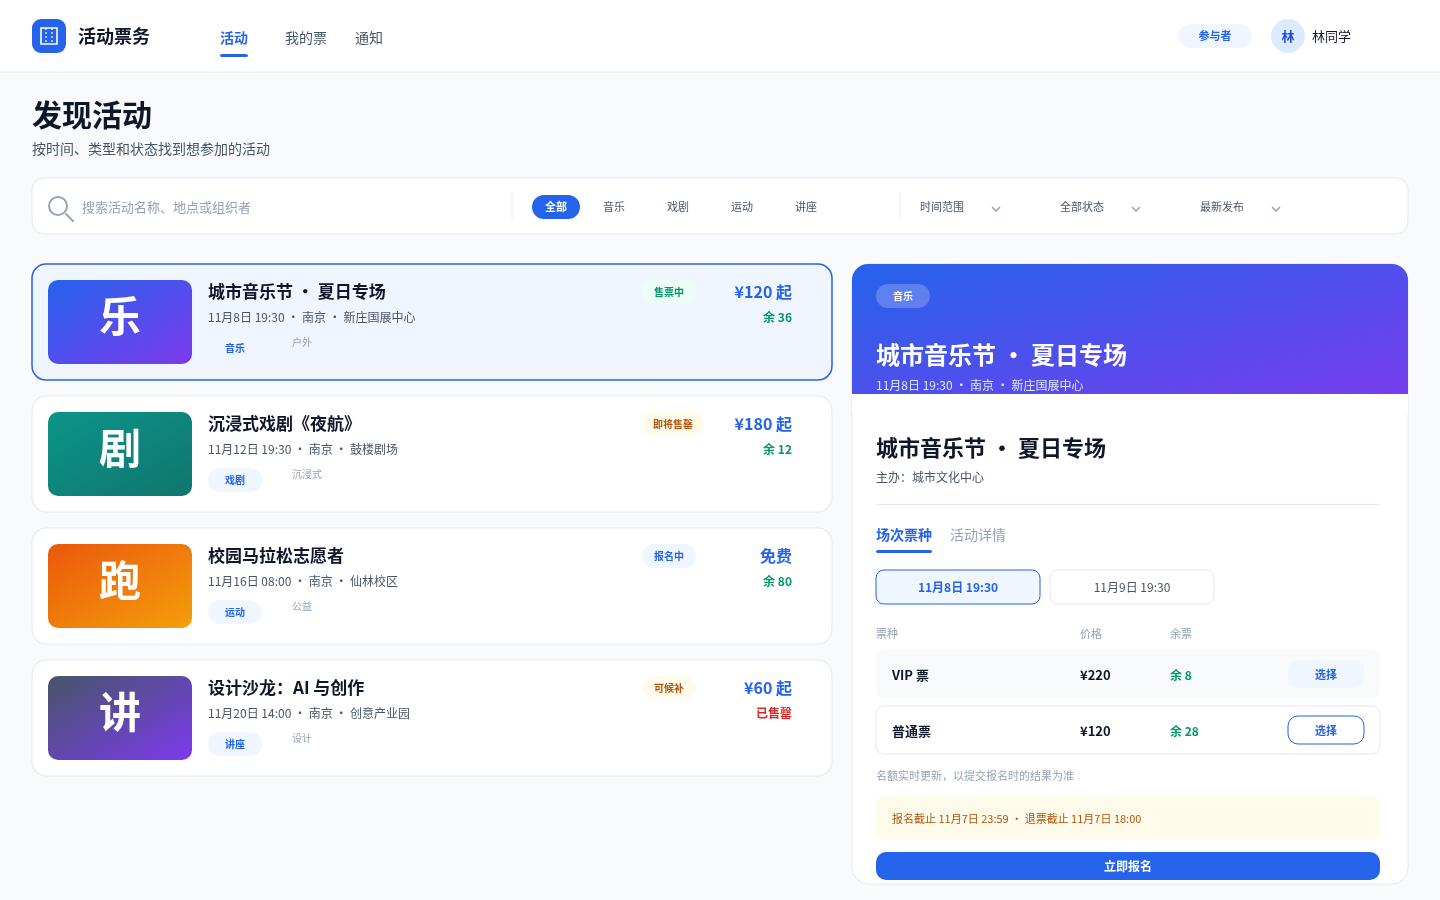
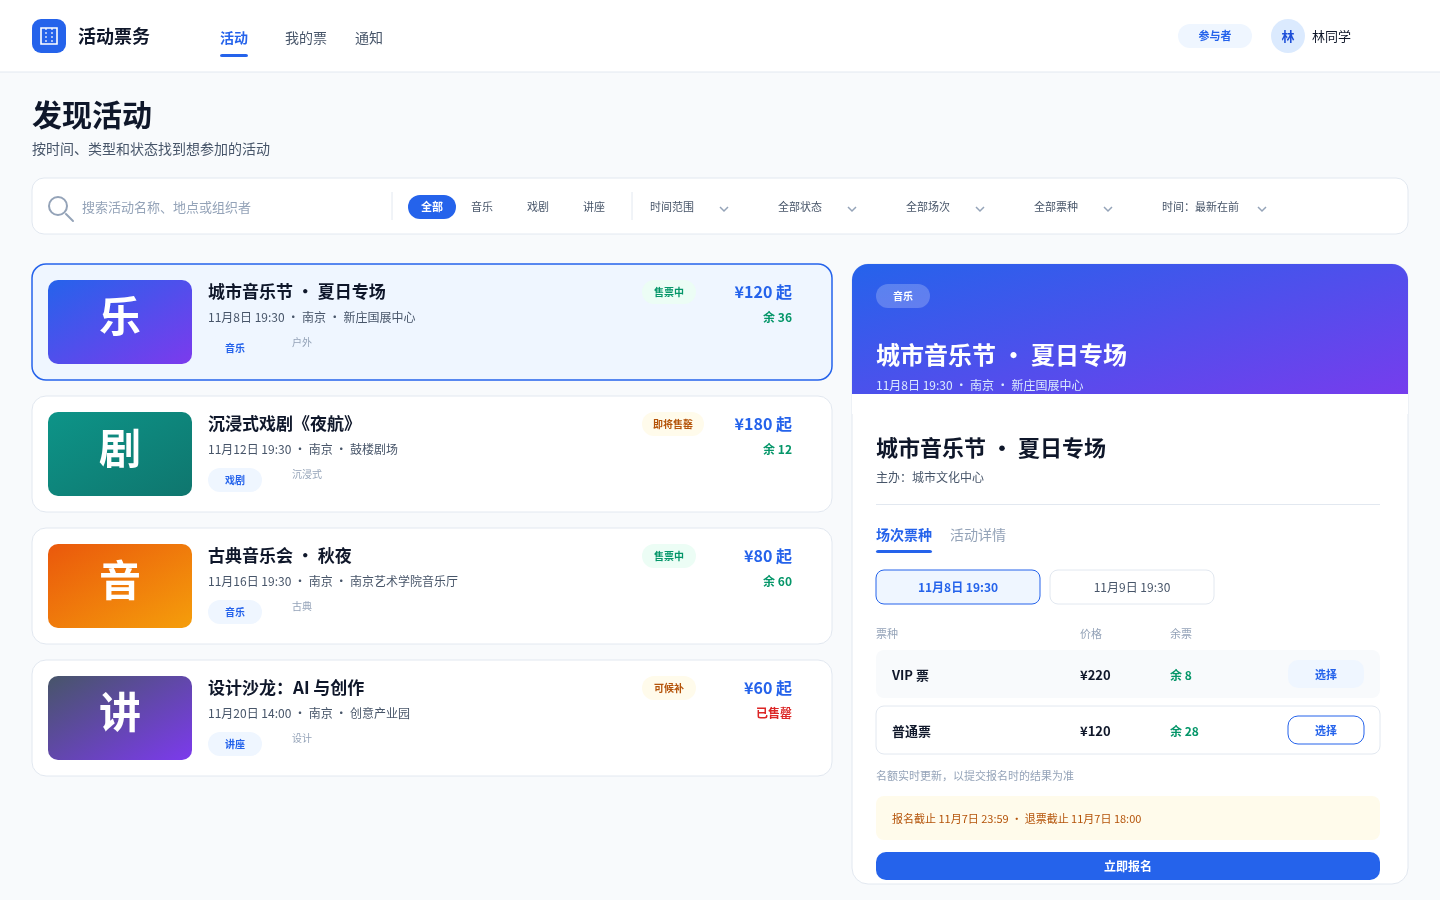
lab2: 按需求调整活动浏览页
- 以音乐（演唱会/音乐节）和戏剧为主，保留讲座，移除运动
- 筛选补齐关键词/时间/状态/场次/票种
- 排序改为时间最新在前，对应 REQ-029
- 同步 UI 说明与 AI 使用记录

diff --git a/lab2/UI/生成UI.py b/lab2/UI/生成UI.py
@@ -210,23 +210,23 @@ def screen_activity():
     b.append(rect(32, 178, 1376, 56, C["surface"], 12, C["border"]))
     b.append(icon_search(58, 206, 9))
     b.append(text(82, 212, "搜索活动名称、地点或组织者", 13, C["muted"]))
-    b.append(line(512, 192, 512, 220, C["border"]))
-    for i, (label, active) in enumerate([("全部", True), ("音乐", False), ("戏剧", False), ("运动", False), ("讲座", False)]):
-        x = 532 + i * 64
+    b.append(line(392, 192, 392, 220, C["border"]))
+    for i, (label, active) in enumerate([("全部", True), ("音乐", False), ("戏剧", False), ("讲座", False)]):
+        x = 408 + i * 56
         if active:
             b.append(rect(x, 195, 48, 24, C["primary"], 12))
             b.append(text(x + 24, 211, label, 11, "#FFFFFF", 600, "middle"))
         else:
             b.append(text(x + 18, 211, label, 11, C["sub"], 400, "middle"))
-    b.append(line(900, 192, 900, 220, C["border"]))
-    for x, label in [(920, "时间范围"), (1060, "全部状态"), (1200, "最新发布")]:
+    b.append(line(632, 192, 632, 220, C["border"]))
+    for x, label, chev in [(650, "时间范围", 70), (778, "全部状态", 70), (906, "全部场次", 70), (1034, "全部票种", 70), (1162, "时间：最新在前", 96)]:
         b.append(text(x, 211, label, 11, C["sub"]))
-        b.append(f'<path d="M{x+72} 207 l4 4 l4 -4" fill="none" stroke="{C["muted"]}" stroke-width="1.5"/>')
+        b.append(f'<path d="M{x+chev} 207 l4 4 l4 -4" fill="none" stroke="{C["muted"]}" stroke-width="1.5"/>')
 
     cards = [
         ("城市音乐节 · 夏日专场", "11月8日 19:30 · 南京 · 新庄国展中心", "音乐 / 户外", "¥120 起", "余 36", "售票中", C["success"], C["success_bg"], "g1", "乐", True),
         ("沉浸式戏剧《夜航》", "11月12日 19:30 · 南京 · 鼓楼剧场", "戏剧 / 沉浸式", "¥180 起", "余 12", "即将售罄", C["warning"], C["warning_bg"], "g2", "剧", False),
-        ("校园马拉松志愿者", "11月16日 08:00 · 南京 · 仙林校区", "运动 / 公益", "免费", "余 80", "报名中", C["primary"], C["blue_tint"], "g3", "跑", False),
+        ("古典音乐会 · 秋夜", "11月16日 19:30 · 南京 · 南京艺术学院音乐厅", "音乐 / 古典", "¥80 起", "余 60", "售票中", C["success"], C["success_bg"], "g3", "音", False),
         ("设计沙龙：AI 与创作", "11月20日 14:00 · 南京 · 创意产业园", "讲座 / 设计", "¥60 起", "已售罄", "可候补", C["warning"], C["warning_bg"], "g4", "讲", False),
     ]
     for i, (title, meta, tags, price, remain, status, sfg, sbg, gid, char, selected) in enumerate(cards):

diff --git a/lab2/杂物/AI使用记录_完整过程.md b/lab2/杂物/AI使用记录_完整过程.md
@@ -478,3 +478,25 @@
   - 问题：如果用户确实需要双角色，需要另一个手机号/账号；这是实验一甲方的要求，设计按此执行。
 - **人工修改优化后的结果**：登录页和设计基线均已修正；顶部注册 Tab 删除。
 - **对应 Git 提交**：`1545370`（按需求修正登录身份模型）。
+
+---
+
+## 使用记录 25：活动浏览页人工审查与修改
+
+- **时间**：2026-11-01
+- **使用场景**：用户审查活动浏览页，明确项目以演唱会/音乐节（音乐）和戏剧演出为主，要求删除运动、保留讲座；并核对筛选与排序是否符合需求。
+- **需求核对（REQ-029）**：
+  - 参与者可按关键词、时间范围、活动状态、场次、票种等条件组合查询；
+  - 可按时间排序（新的在前）；
+  - 组织者不提供“查询公开活动”功能，管理员可查全部。
+- **AI 的处理**：
+  - 分类快捷改为：全部 / 音乐 / 戏剧 / 讲座，删除运动；
+  - 活动卡片把“校园马拉松志愿者”替换为“古典音乐会 · 秋夜”；
+  - 筛选栏补齐：关键词、时间范围、活动状态、场次、票种；
+  - 排序标签改为“时间：最新在前”，与 REQ-029 一致；
+  - UI 设计规范和三屏说明同步更新。
+- **优点/问题**：
+  - 优点：筛选条件与 REQ-029 对齐；分类聚焦音乐/戏剧/讲座，更符合项目主题。
+  - 问题：时间排序的“新的在前”在 UI 上用“时间：最新在前”表达；如果课程要求是“发布时间”而非“活动时间”，后续需要在文案上明确。
+- **人工修改优化后的结果**：活动浏览页已按用户意见修改；其他两屏未改。
+- **对应 Git 提交**：待提交（活动浏览页修改）。

diff --git a/lab2/UI/三屏样例说明.md b/lab2/UI/三屏样例说明.md
@@ -26,13 +26,19 @@
 - **覆盖模块**：活动/场次、票种/容量、查询统计（只读）。
 - **页面结构**：顶部导航；搜索/筛选；左侧活动列表；右侧场次票种详情。
 - **关键内容**：
+  - 活动类型以演唱会/音乐节（音乐）和戏剧演出为主，保留讲座，**移除运动**；
+  - 筛选：关键词、分类快捷（全部/音乐/戏剧/讲座）、时间范围、活动状态、场次、票种；
+  - 排序：**时间最新在前**，对应 REQ-029；
   - 活动卡片：封面、时间、地点、分类、票价、余票、状态（售票中/即将售罄/可候补）；
   - 详情：场次切换、VIP/普通票余票、选择按钮、报名截止/退票截止、立即报名；
   - 售罄活动显示“可候补”。
+- **需求核对**：
+  - REQ-029 要求参与者可按关键词、时间范围、活动状态、场次、票种组合查询，并可按下单/活动时间排序（新的在前）；本屏已覆盖这些条件；
+  - 分类快捷是额外便利，不替代上述筛选条件。
 - **需要你在 Figma 中调整**：
   - 卡片封面是否要用真实图片（Figma 里放图片填充）；
   - 右侧详情是否改成弹窗/抽屉；
-  - 筛选条件是否再增加“票种/场次”；
+  - 筛选条件展开/收起后的布局；
   - 活动列表空状态、加载状态是否要补。
 
 ## 03 报名购票与候补

diff --git a/lab2/AI使用记录.md b/lab2/AI使用记录.md
@@ -112,7 +112,7 @@
 - **输入**：9 屏清单、角色权限、售票/售罄/候补/支付标记规则、设计系统。
 - **生成结果**：`UI/01_登录注册.svg`、`UI/02_活动浏览与详情.svg`、`UI/03_报名购票与候补.svg`，以及 UI 设计规范、三屏说明、Figma 导入说明。
 - **优点/问题**：覆盖账号、活动/票种、报名/候补核心路径，状态可见；但只是静态骨架，封面图片、字体、空/加载/禁用状态和 Figma 组件化仍需人工调整。
-- **人工修改**：登录页先按 R8 调整，后按需求核对修正：删除登录身份选择和顶部注册 Tab；登录只保留手机号+密码；右侧注册卡继续负责身份选择；删除“忘记密码”和重复提示。其余两屏待 Figma 调整。
+- **人工修改**：登录页先按 R8 调整，后按需求核对修正：删除登录身份选择和顶部注册 Tab；登录只保留手机号+密码；右侧注册卡继续负责身份选择；删除“忘记密码”和重复提示。活动浏览页按 R9 调整：移除运动、保留音乐/戏剧/讲座，补齐场次/票种筛选和时间最新排序。
 - **Git**：`95e7d2b`（UI 三屏初稿）、`f35e2c3`（登录页人工修改）、`1545370`（按需求修正身份模型）。
 
 ---

diff --git a/lab2/UI/UI设计规范.md b/lab2/UI/UI设计规范.md
@@ -52,7 +52,7 @@
 | 编号 | 界面 | 角色 | 覆盖模块 | 关键状态 |
 |---|---|---|---|---|
 | UI-01 | 登录/注册 | 全部 | 账号 | 登录只需手机号+密码（一个手机号只对应一个身份）；注册卡选择身份；管理员/检票员入口；无找回密码；平台预创建提示只保留一处 |
-| UI-02 | 活动浏览与详情 | 参与者 | 活动/场次、票种/容量、查询 | 售票中、即将售罄、售罄可候补、筛选 |
+| UI-02 | 活动浏览与详情 | 参与者 | 活动/场次、票种/容量、查询 | 售票中、即将售罄、售罄可候补；关键词/时间/状态/场次/票种组合筛选；时间最新在前 |
 | UI-03 | 报名购票与候补 | 参与者 | 报名、退票/候补 | 有票直接报名、售罄加入候补、支付标记、截止提示 |
 | UI-04 | 我的票与退票 | 参与者 | 报名、退票 | 已购票/已检票/已取消、退票截止、退款 |
 | UI-05 | 组织者活动管理 | 组织者 | 活动/场次、票种、审核 | 草稿/待审核/公开、可修改范围、提交审核 |
